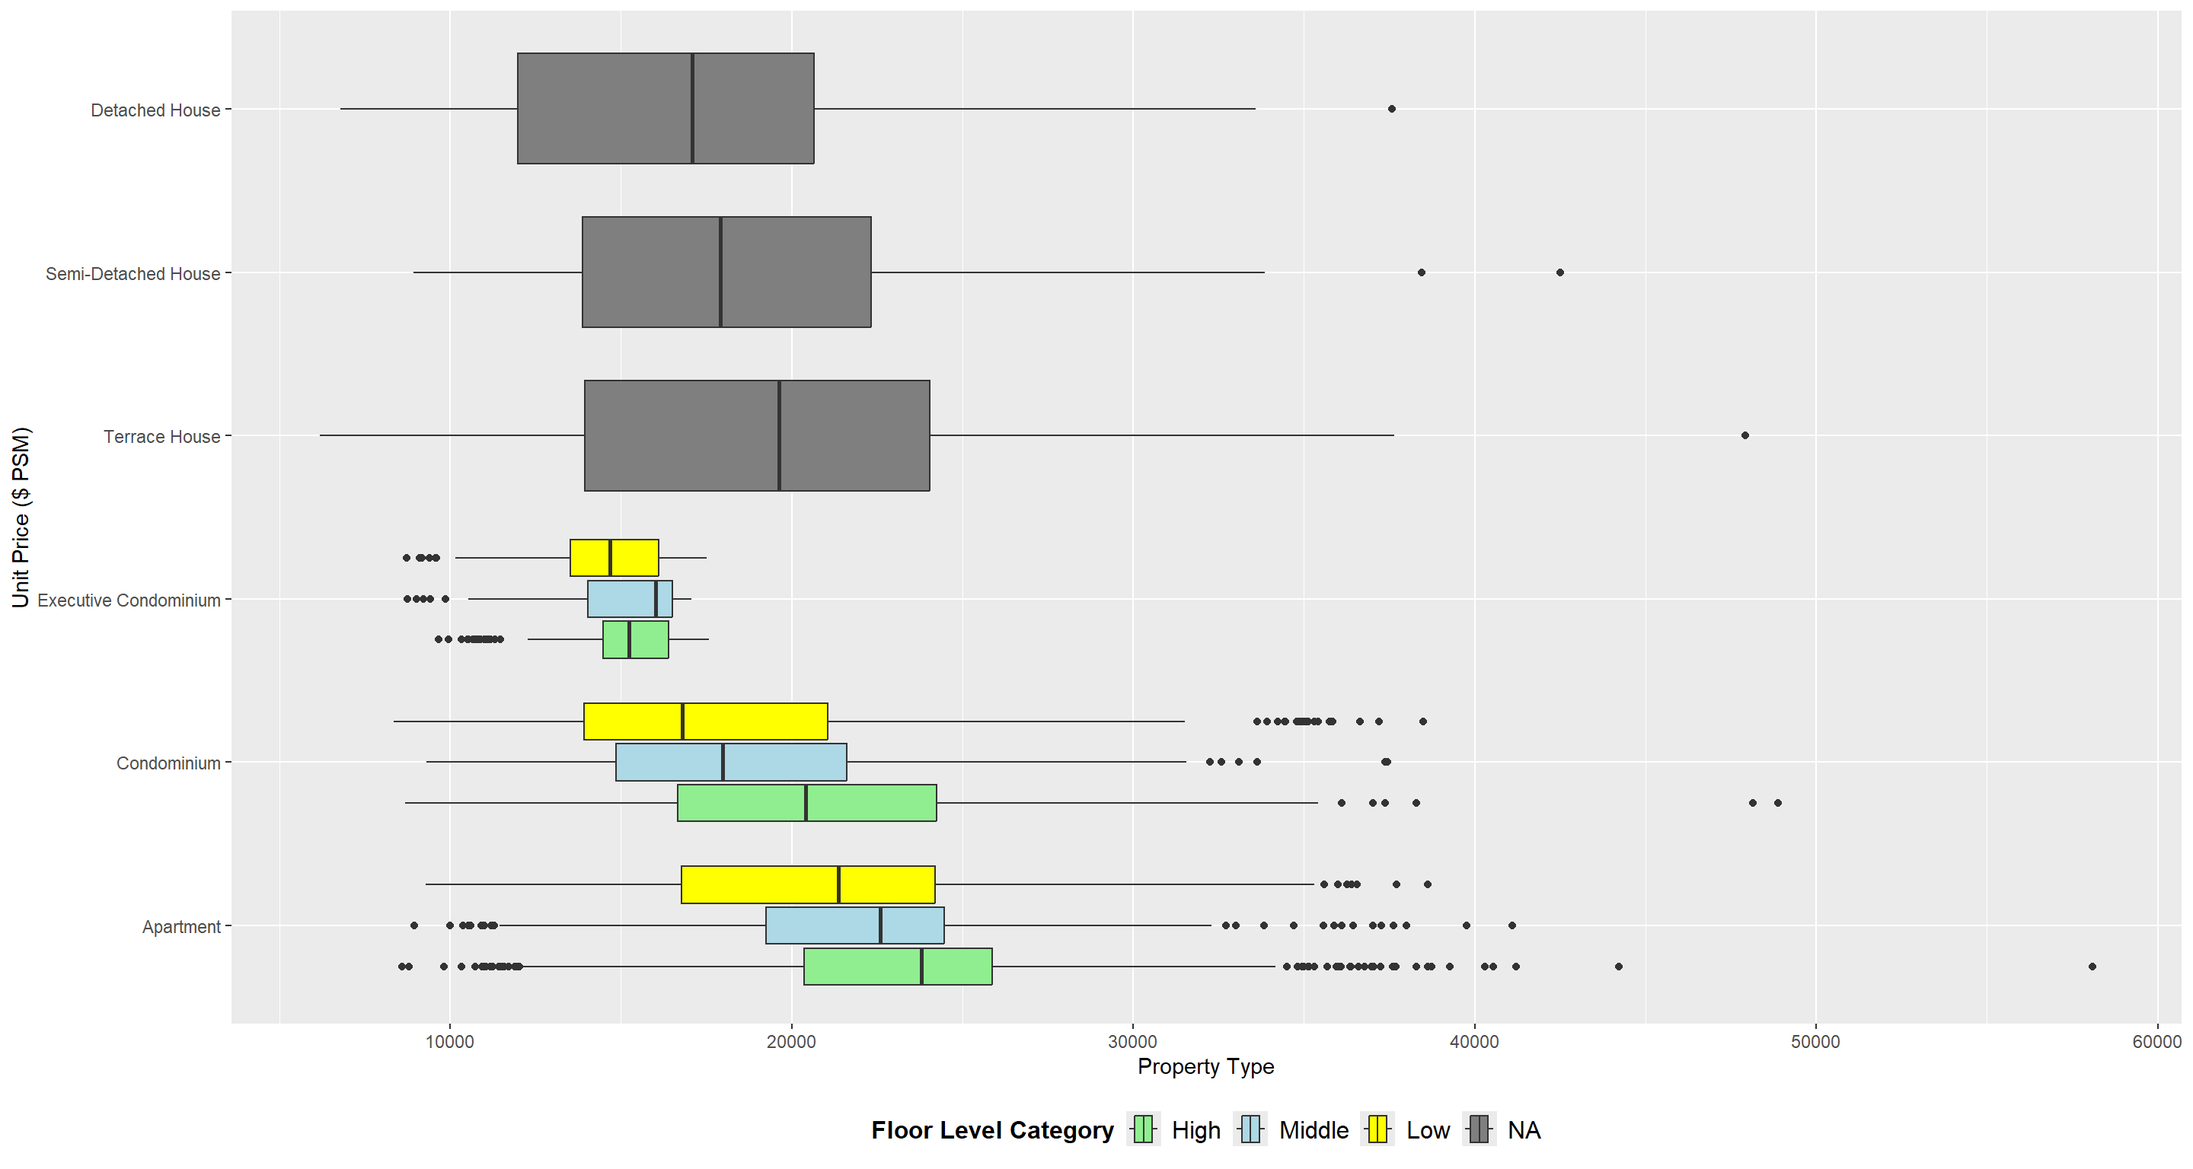
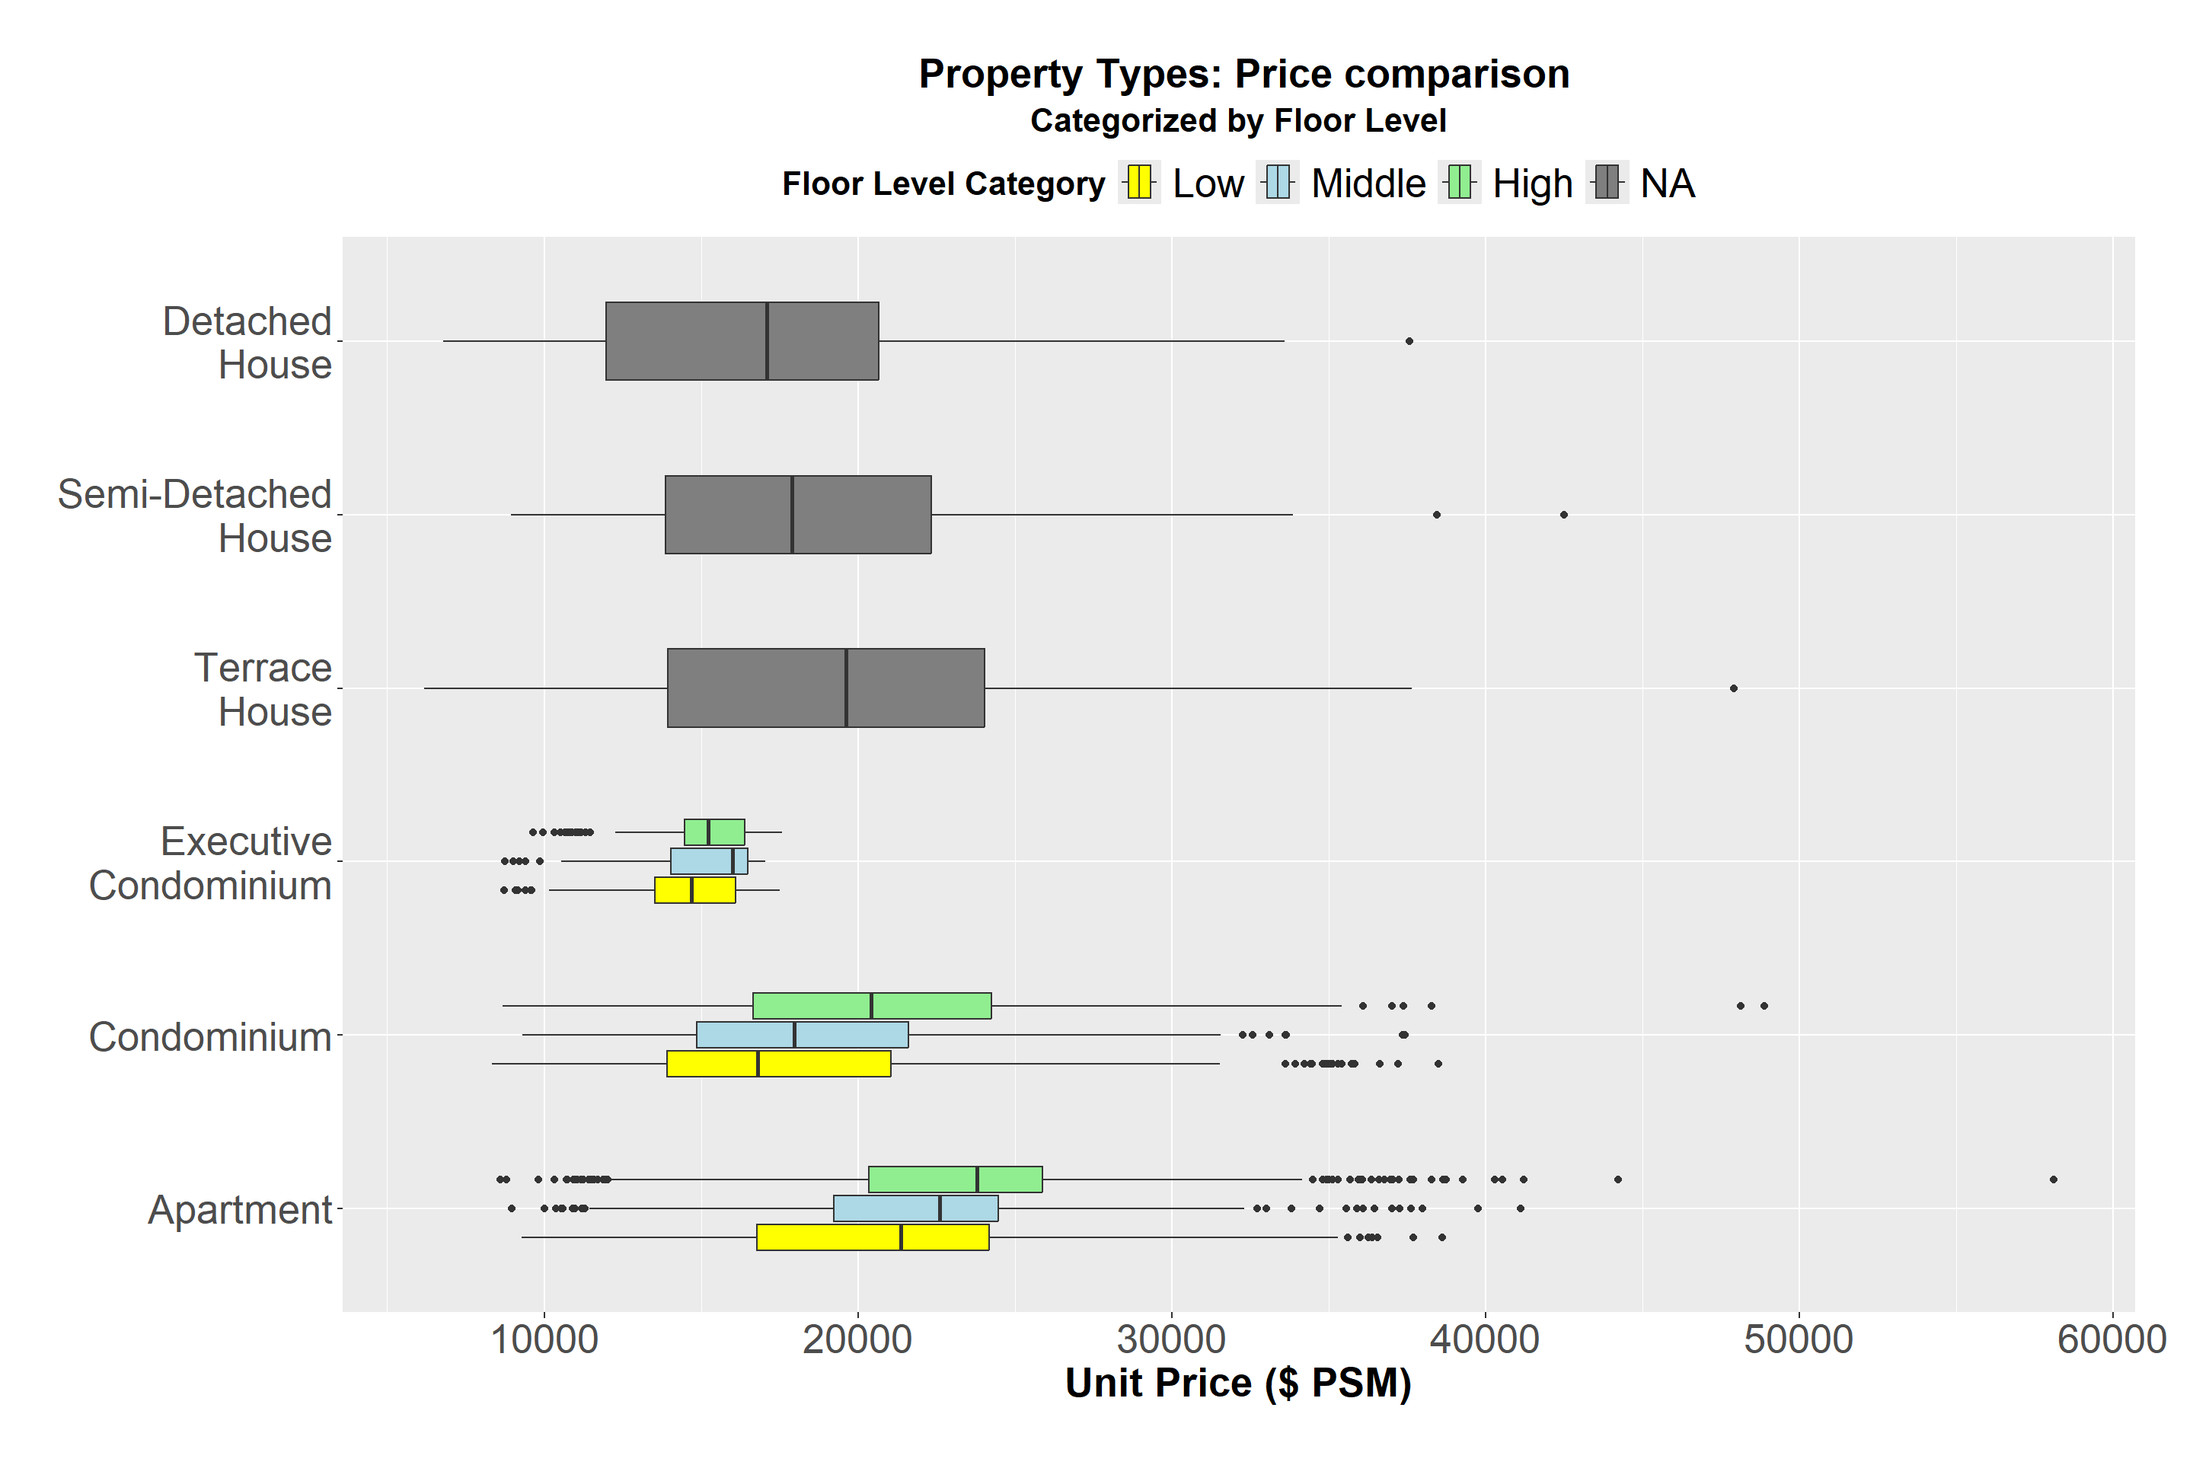
take home 2

diff --git a/_site/Take-home_Ex/Take-home_Ex02/Take-home_Ex02.html b/_site/Take-home_Ex/Take-home_Ex02/Take-home_Ex02.html
@@ -371,7 +371,7 @@ pre > code.sourceCode > span > a:first-child::before { text-decoration: underlin
 </div>
 </div>
 </div>
-<p>This box plot helps to understand the variability of prices among the different property types. An interesting insight about the price patterns among different floor categeries also has been derived out.</p>
+<p>This box plot helps to understand the variability of prices among the different property types. An interesting insight about the price patterns among different floor categories also has been derived out.</p>
 <section id="critique" class="level2">
 <h2 class="anchored" data-anchor-id="critique"><strong>4 Critique</strong></h2>
 </section>
@@ -386,7 +386,7 @@ pre > code.sourceCode > span > a:first-child::before { text-decoration: underlin
 <h3 class="anchored" data-anchor-id="clarity">4.2.1 Clarity</h3>
 <ol type="1">
 <li>The boxes are very compressed making it difficult to understand the position of medians</li>
-<li>The box sizes are misleading, when we see boxes of varying sizes we would expect the box sizes to reflect the number of data points in that property type. In this case,from the box plot, we would expect Terraced house,semi-detatched house and detatched house to have highest numbers,but from data it is clear that it is not the case.</li>
+<li>The box sizes are misleading. When we see boxes of varying sizes we would expect the box sizes to reflect the number of data points in that property type. In this case, from the box plot, we would expect Terraced house,Semi-detached house and Detached house to have highest numbers as those seem to have the largest boxes. But by looking at data it is clear that it is not the case as these property types have less number of data points.</li>
 </ol>
 </section>
 <section id="aesthetics" class="level3">
@@ -411,8 +411,10 @@ pre > code.sourceCode > span > a:first-child::before { text-decoration: underlin
 <p>This will also help to stretch out the boxes further, thus making the spread and medians more visible and distinguishable.</p></li>
 <li><p>Changed the order of the Property Types, so that the Property types with different floor categories appear together.</p></li>
 <li><p>Changed the order of Floor category types to appear in the order of low,medium and high.</p></li>
-<li><p>Tried using varwidth=TRUE, for the box plots to reflect the actual count of data points,but this didnt look visually appealing as some property types like Terraced house,semi-detatched house and detatched house has very less data points resulting in extremely narrow boxes making it difficult to see the median value.</p>
-<p>Also tried using fixed width size by setting width = 0.5 for the box plot. But this resulted in the fixed width being split among the different floor categories for a property type and Terraced house,semi-detatched house and detatched house to have a fixed width, which again looked odd and not representative of the actual data.</p>
+<li><p>Tried using varwidth=TRUE, for the box plots to reflect the actual count of data points,but this didnt look visually appealing as some property types like Terraced house,semi-detatched house and detatched house has very less data points resulting in extremely narrow boxes making it difficult to see the median value. (See Figure below)</p>
+<p><img src="images/clipboard-3020957854.png" class="img-fluid" width="326"></p>
+<p>Also tried using fixed width size by setting width = 0.5 for the box plot. But this resulted in the fixed width being split among the different floor categories for a property type and Terraced house,semi-detached house and detached house to have a fixed width, which again looked odd and not representative of the actual data. (See Figure below)</p>
+<p><img src="images/clipboard-3600425131.png" class="img-fluid" width="317"></p>
 <p>Finally, used position_dodge2(preserve = “single”) so that all boxes including the boxes corresponding to the different floor categories are of same size. This removed the distraction away from different sized box plots which are not representative of the data.</p></li>
 </ol>
 </section>
@@ -457,31 +459,28 @@ pre > code.sourceCode > span > a:first-child::before { text-decoration: underlin
 <span id="cb9-13"><a href="#cb9-13" aria-hidden="true" tabindex="-1"></a><span class="co"># Create the boxplot using ggplot2</span></span>
 <span id="cb9-14"><a href="#cb9-14" aria-hidden="true" tabindex="-1"></a><span class="fu">ggplot</span>(realis2024Q1, <span class="fu">aes</span>(<span class="at">y =</span> <span class="st">`</span><span class="at">Property Type</span><span class="st">`</span>, <span class="at">x=</span> <span class="st">`</span><span class="at">Unit Price ($ PSM)</span><span class="st">`</span>, <span class="at">fill =</span> <span class="st">`</span><span class="at">Floor Level Category</span><span class="st">`</span>)) <span class="sc">+</span></span>
 <span id="cb9-15"><a href="#cb9-15" aria-hidden="true" tabindex="-1"></a>  <span class="fu">geom_boxplot</span>(<span class="at">position =</span> <span class="fu">position_dodge2</span>(<span class="at">preserve =</span> <span class="st">"single"</span>)</span>
-<span id="cb9-16"><a href="#cb9-16" aria-hidden="true" tabindex="-1"></a>    <span class="co">#varwidth=TRUE,</span></span>
-<span id="cb9-17"><a href="#cb9-17" aria-hidden="true" tabindex="-1"></a>    <span class="co">#width = 0.5,</span></span>
-<span id="cb9-18"><a href="#cb9-18" aria-hidden="true" tabindex="-1"></a>   <span class="co"># position = position_dodge(width = 0.15)</span></span>
-<span id="cb9-19"><a href="#cb9-19" aria-hidden="true" tabindex="-1"></a>  ) <span class="sc">+</span></span>
-<span id="cb9-20"><a href="#cb9-20" aria-hidden="true" tabindex="-1"></a>  <span class="fu">scale_fill_manual</span>(<span class="at">values =</span> <span class="fu">c</span>(<span class="st">"High"</span> <span class="ot">=</span> <span class="st">"lightgreen"</span>, <span class="st">"Middle"</span> <span class="ot">=</span><span class="st">"lightblue"</span>, <span class="st">"Low"</span> <span class="ot">=</span> <span class="st">"yellow"</span>, <span class="st">"N.A."</span> <span class="ot">=</span> <span class="st">"gray"</span>)) <span class="sc">+</span></span>
-<span id="cb9-21"><a href="#cb9-21" aria-hidden="true" tabindex="-1"></a>  <span class="fu">labs</span>(<span class="at">title =</span> <span class="st">" Property Types: Price comparison"</span>, <span class="at">hjust =</span> <span class="fl">0.8</span>,</span>
-<span id="cb9-22"><a href="#cb9-22" aria-hidden="true" tabindex="-1"></a>       <span class="at">subtitle =</span> <span class="st">"Categorized by Floor Level"</span>,</span>
-<span id="cb9-23"><a href="#cb9-23" aria-hidden="true" tabindex="-1"></a>       <span class="at">y =</span> <span class="st">"Property Type"</span>,</span>
-<span id="cb9-24"><a href="#cb9-24" aria-hidden="true" tabindex="-1"></a>       <span class="at">x =</span> <span class="st">"Unit Price ($ PSM)"</span>,</span>
-<span id="cb9-25"><a href="#cb9-25" aria-hidden="true" tabindex="-1"></a>       <span class="at">fill =</span> <span class="st">"Floor Level Category"</span>) <span class="sc">+</span></span>
-<span id="cb9-26"><a href="#cb9-26" aria-hidden="true" tabindex="-1"></a>  <span class="fu">scale_y_discrete</span>(<span class="at">labels =</span> <span class="fu">label_wrap_gen</span>(<span class="at">width =</span> <span class="dv">10</span>)) <span class="sc">+</span></span>
-<span id="cb9-27"><a href="#cb9-27" aria-hidden="true" tabindex="-1"></a>  <span class="fu">theme</span>(</span>
-<span id="cb9-28"><a href="#cb9-28" aria-hidden="true" tabindex="-1"></a>        <span class="at">legend.position =</span> <span class="st">"top"</span>,</span>
-<span id="cb9-29"><a href="#cb9-29" aria-hidden="true" tabindex="-1"></a>        <span class="at">legend.box =</span> <span class="st">"horizontal"</span>,  </span>
-<span id="cb9-30"><a href="#cb9-30" aria-hidden="true" tabindex="-1"></a>        <span class="at">legend.title =</span> <span class="fu">element_text</span>(<span class="at">hjust =</span> <span class="fl">0.9</span>,<span class="at">size =</span> <span class="dv">16</span>, <span class="at">face =</span> <span class="st">"bold"</span>), </span>
-<span id="cb9-31"><a href="#cb9-31" aria-hidden="true" tabindex="-1"></a>        <span class="at">legend.text =</span> <span class="fu">element_text</span>(<span class="at">size =</span> <span class="dv">20</span>),</span>
-<span id="cb9-32"><a href="#cb9-32" aria-hidden="true" tabindex="-1"></a>        <span class="at">plot.title =</span> <span class="fu">element_text</span>(<span class="at">hjust =</span> <span class="fl">0.5</span>,<span class="at">face =</span> <span class="st">"bold"</span>, <span class="at">size =</span> <span class="dv">20</span>),</span>
-<span id="cb9-33"><a href="#cb9-33" aria-hidden="true" tabindex="-1"></a>        <span class="at">plot.subtitle =</span> <span class="fu">element_text</span>(<span class="at">hjust =</span> <span class="fl">0.5</span>,<span class="at">face =</span> <span class="st">"bold"</span>, <span class="at">size =</span> <span class="dv">16</span>),</span>
-<span id="cb9-34"><a href="#cb9-34" aria-hidden="true" tabindex="-1"></a>        <span class="at">legend.key.size =</span> <span class="fu">unit</span>(<span class="fl">1.5</span>, <span class="st">"lines"</span>),</span>
-<span id="cb9-35"><a href="#cb9-35" aria-hidden="true" tabindex="-1"></a>        <span class="at">axis.text.x =</span> <span class="fu">element_text</span>(<span class="at">size =</span> <span class="dv">20</span>),</span>
-<span id="cb9-36"><a href="#cb9-36" aria-hidden="true" tabindex="-1"></a>        <span class="at">axis.text.y =</span> <span class="fu">element_text</span>(<span class="at">size =</span> <span class="dv">20</span>),</span>
-<span id="cb9-37"><a href="#cb9-37" aria-hidden="true" tabindex="-1"></a>        <span class="at">axis.title.y =</span> <span class="fu">element_blank</span>(),</span>
-<span id="cb9-38"><a href="#cb9-38" aria-hidden="true" tabindex="-1"></a>        <span class="at">axis.title.x=</span><span class="fu">element_text</span>(<span class="at">size=</span><span class="dv">20</span>,<span class="at">face=</span><span class="st">"bold"</span>),</span>
-<span id="cb9-39"><a href="#cb9-39" aria-hidden="true" tabindex="-1"></a>        <span class="at">plot.margin =</span> <span class="fu">unit</span>(<span class="fu">c</span>(<span class="dv">1</span>, <span class="dv">1</span>, <span class="dv">1</span>, <span class="dv">1</span>), <span class="st">"cm"</span>)  <span class="co"># Set uniform plot margins</span></span>
-<span id="cb9-40"><a href="#cb9-40" aria-hidden="true" tabindex="-1"></a>  )</span></code><button title="Copy to Clipboard" class="code-copy-button"><i class="bi"></i></button></pre></div>
+<span id="cb9-16"><a href="#cb9-16" aria-hidden="true" tabindex="-1"></a>  ) <span class="sc">+</span></span>
+<span id="cb9-17"><a href="#cb9-17" aria-hidden="true" tabindex="-1"></a>  <span class="fu">scale_fill_manual</span>(<span class="at">values =</span> <span class="fu">c</span>(<span class="st">"High"</span> <span class="ot">=</span> <span class="st">"lightgreen"</span>, <span class="st">"Middle"</span> <span class="ot">=</span><span class="st">"lightblue"</span>, <span class="st">"Low"</span> <span class="ot">=</span> <span class="st">"yellow"</span>, <span class="st">"N.A."</span> <span class="ot">=</span> <span class="st">"gray"</span>)) <span class="sc">+</span></span>
+<span id="cb9-18"><a href="#cb9-18" aria-hidden="true" tabindex="-1"></a>  <span class="fu">labs</span>(<span class="at">title =</span> <span class="st">" Property Types: Price comparison"</span>, <span class="at">hjust =</span> <span class="fl">0.8</span>,</span>
+<span id="cb9-19"><a href="#cb9-19" aria-hidden="true" tabindex="-1"></a>       <span class="at">subtitle =</span> <span class="st">"Categorized by Floor Level"</span>,</span>
+<span id="cb9-20"><a href="#cb9-20" aria-hidden="true" tabindex="-1"></a>       <span class="at">y =</span> <span class="st">"Property Type"</span>,</span>
+<span id="cb9-21"><a href="#cb9-21" aria-hidden="true" tabindex="-1"></a>       <span class="at">x =</span> <span class="st">"Unit Price ($ PSM)"</span>,</span>
+<span id="cb9-22"><a href="#cb9-22" aria-hidden="true" tabindex="-1"></a>       <span class="at">fill =</span> <span class="st">"Floor Level Category"</span>) <span class="sc">+</span></span>
+<span id="cb9-23"><a href="#cb9-23" aria-hidden="true" tabindex="-1"></a>  <span class="fu">scale_y_discrete</span>(<span class="at">labels =</span> <span class="fu">label_wrap_gen</span>(<span class="at">width =</span> <span class="dv">10</span>)) <span class="sc">+</span></span>
+<span id="cb9-24"><a href="#cb9-24" aria-hidden="true" tabindex="-1"></a>  <span class="fu">theme</span>(</span>
+<span id="cb9-25"><a href="#cb9-25" aria-hidden="true" tabindex="-1"></a>        <span class="at">legend.position =</span> <span class="st">"top"</span>,</span>
+<span id="cb9-26"><a href="#cb9-26" aria-hidden="true" tabindex="-1"></a>        <span class="at">legend.box =</span> <span class="st">"horizontal"</span>,  </span>
+<span id="cb9-27"><a href="#cb9-27" aria-hidden="true" tabindex="-1"></a>        <span class="at">legend.title =</span> <span class="fu">element_text</span>(<span class="at">hjust =</span> <span class="fl">0.9</span>,<span class="at">size =</span> <span class="dv">16</span>, <span class="at">face =</span> <span class="st">"bold"</span>), </span>
+<span id="cb9-28"><a href="#cb9-28" aria-hidden="true" tabindex="-1"></a>        <span class="at">legend.text =</span> <span class="fu">element_text</span>(<span class="at">size =</span> <span class="dv">20</span>),</span>
+<span id="cb9-29"><a href="#cb9-29" aria-hidden="true" tabindex="-1"></a>        <span class="at">plot.title =</span> <span class="fu">element_text</span>(<span class="at">hjust =</span> <span class="fl">0.5</span>,<span class="at">face =</span> <span class="st">"bold"</span>, <span class="at">size =</span> <span class="dv">20</span>),</span>
+<span id="cb9-30"><a href="#cb9-30" aria-hidden="true" tabindex="-1"></a>        <span class="at">plot.subtitle =</span> <span class="fu">element_text</span>(<span class="at">hjust =</span> <span class="fl">0.5</span>,<span class="at">face =</span> <span class="st">"bold"</span>, <span class="at">size =</span> <span class="dv">16</span>),</span>
+<span id="cb9-31"><a href="#cb9-31" aria-hidden="true" tabindex="-1"></a>        <span class="at">legend.key.size =</span> <span class="fu">unit</span>(<span class="fl">1.5</span>, <span class="st">"lines"</span>),</span>
+<span id="cb9-32"><a href="#cb9-32" aria-hidden="true" tabindex="-1"></a>        <span class="at">axis.text.x =</span> <span class="fu">element_text</span>(<span class="at">size =</span> <span class="dv">20</span>),</span>
+<span id="cb9-33"><a href="#cb9-33" aria-hidden="true" tabindex="-1"></a>        <span class="at">axis.text.y =</span> <span class="fu">element_text</span>(<span class="at">size =</span> <span class="dv">20</span>),</span>
+<span id="cb9-34"><a href="#cb9-34" aria-hidden="true" tabindex="-1"></a>        <span class="at">axis.title.y =</span> <span class="fu">element_blank</span>(),</span>
+<span id="cb9-35"><a href="#cb9-35" aria-hidden="true" tabindex="-1"></a>        <span class="at">axis.title.x=</span><span class="fu">element_text</span>(<span class="at">size=</span><span class="dv">20</span>,<span class="at">face=</span><span class="st">"bold"</span>),</span>
+<span id="cb9-36"><a href="#cb9-36" aria-hidden="true" tabindex="-1"></a>        <span class="at">plot.margin =</span> <span class="fu">unit</span>(<span class="fu">c</span>(<span class="dv">1</span>, <span class="dv">1</span>, <span class="dv">1</span>, <span class="dv">1</span>), <span class="st">"cm"</span>)  <span class="co"># Set uniform plot margins</span></span>
+<span id="cb9-37"><a href="#cb9-37" aria-hidden="true" tabindex="-1"></a>  )</span></code><button title="Copy to Clipboard" class="code-copy-button"><i class="bi"></i></button></pre></div>
 </div>
 </div>
 </div>

diff --git a/_site/Hands-on_Ex/Hands-on_Ex01/Hands-on_Ex01.html b/_site/Hands-on_Ex/Hands-on_Ex01/Hands-on_Ex01.html
@@ -445,7 +445,7 @@ pre > code.sourceCode > span > a:first-child::before { text-decoration: underlin
 </ul>
 <section id="geometric-objects-geom_bar" class="level3">
 <h3 class="anchored" data-anchor-id="geometric-objects-geom_bar"><strong>1.7.1 Geometric Objects: geom_bar</strong></h3>
-<p><code>xye ggplot(data=exam_data,         aes(x=RACE)) +   geom_bar()}</code></p>
+<p><code>ued ggplot(data=exam_data,         aes(x=RACE)) +   geom_bar()}</code></p>
 </section>
 <section id="geometric-objects-geom_dotplot" class="level3">
 <h3 class="anchored" data-anchor-id="geometric-objects-geom_dotplot"><strong>1.7.2 Geometric Objects: geom_dotplot</strong></h3>
